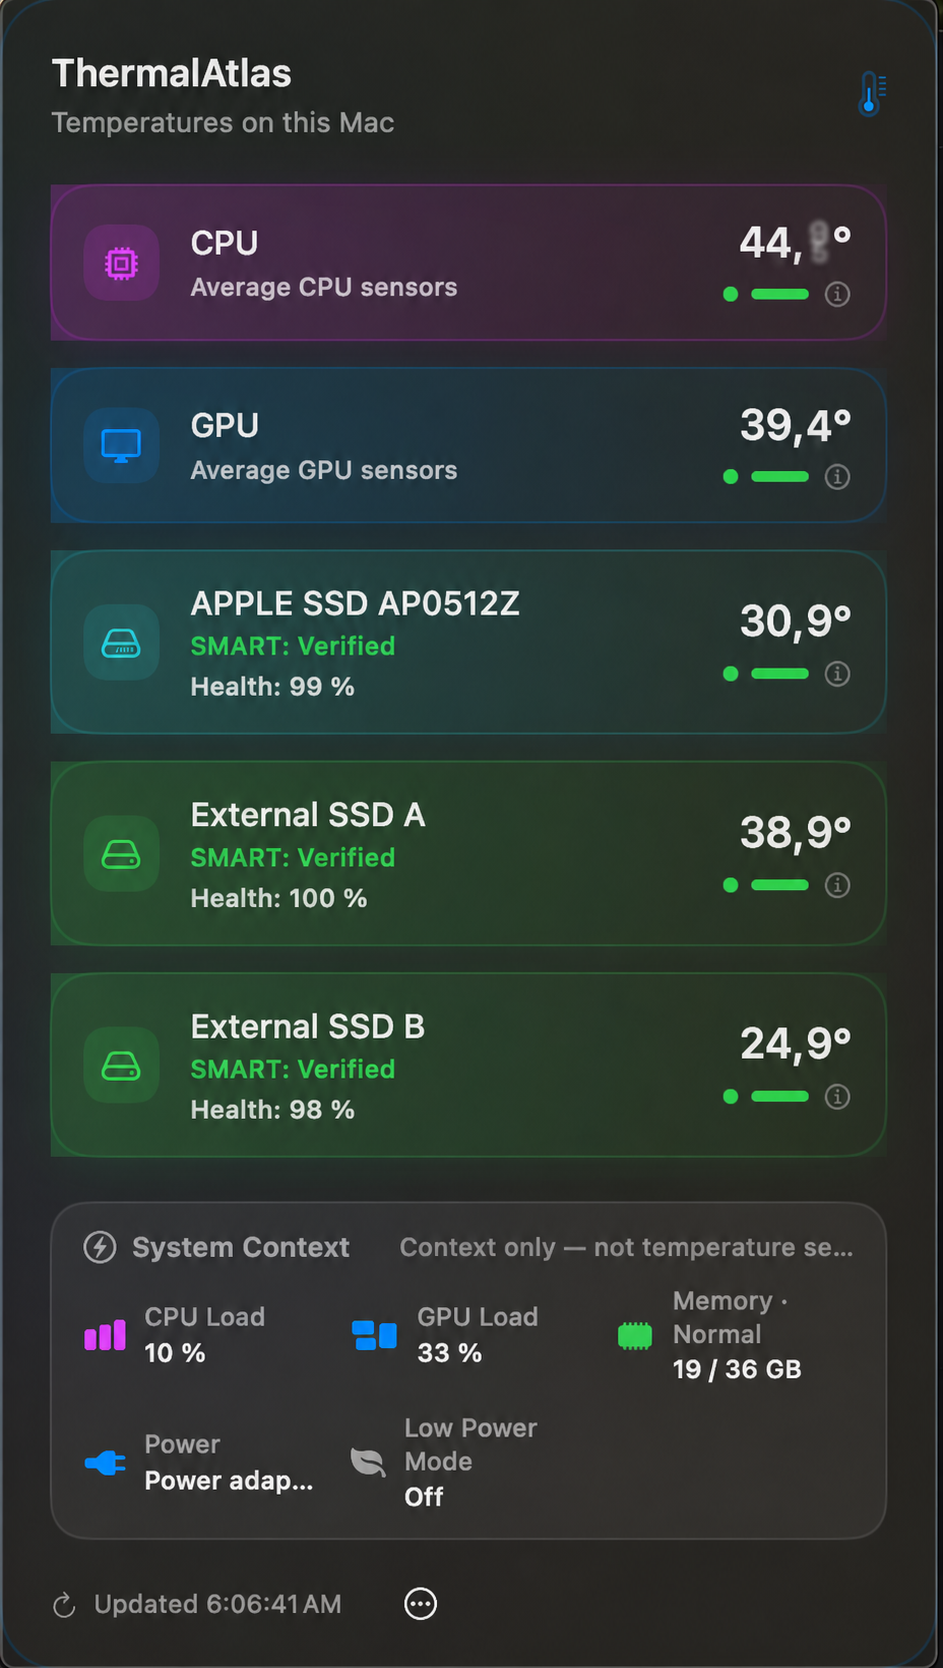
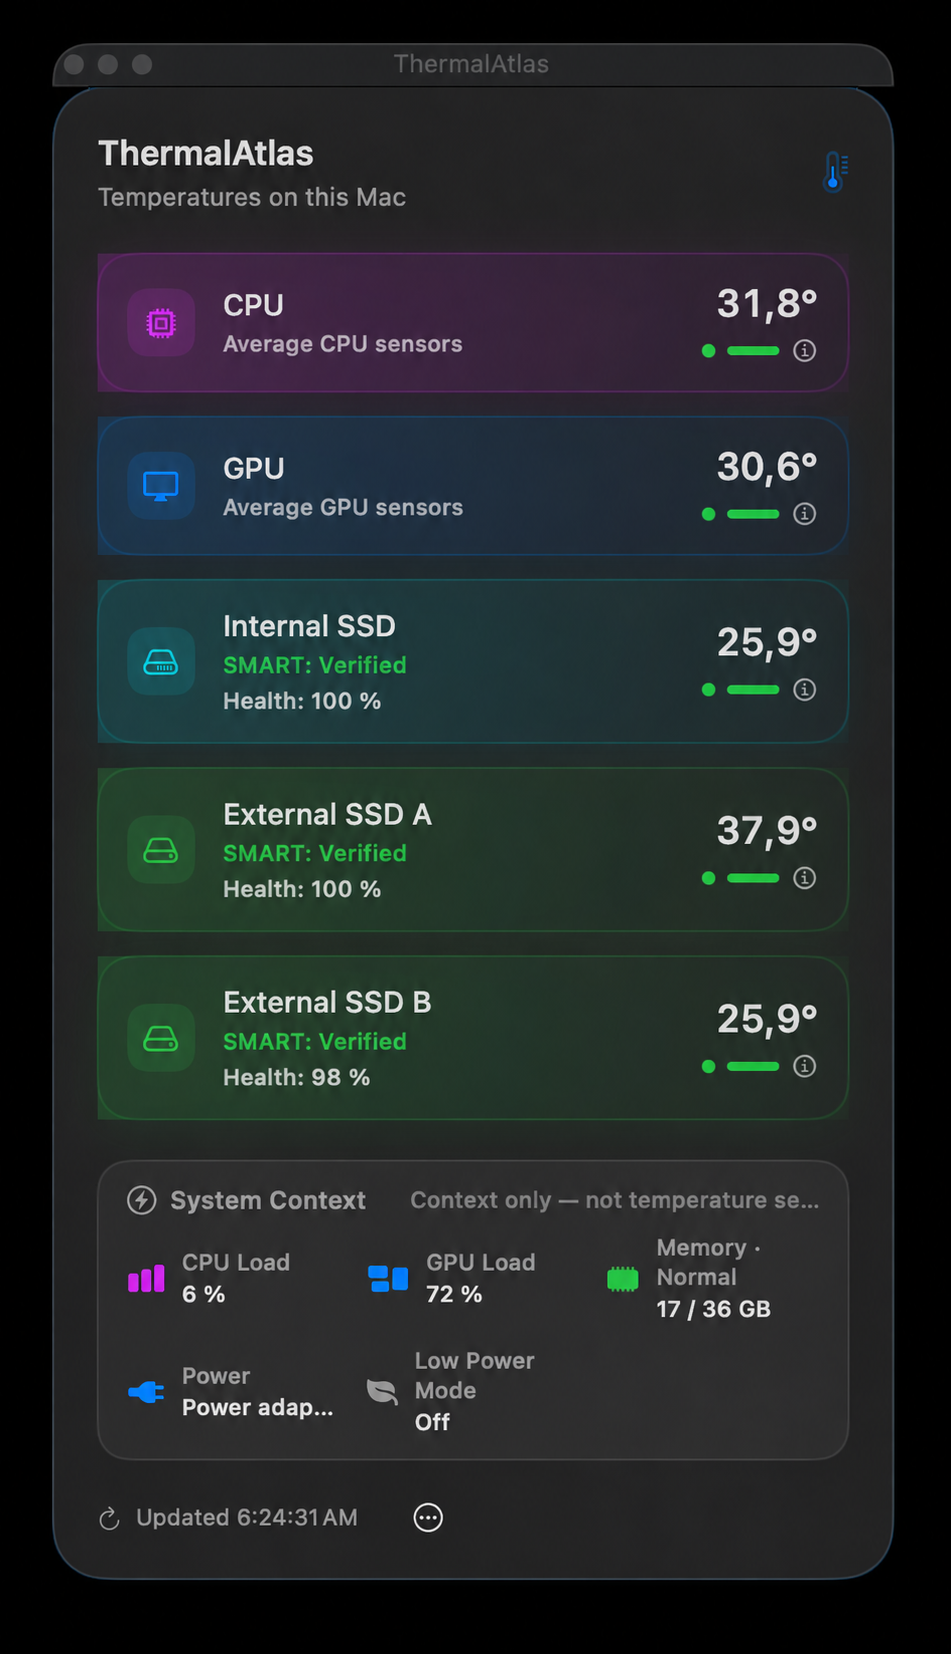
docs: refresh README screenshots

diff --git a/README.de.md b/README.de.md
@@ -46,6 +46,10 @@ Die vollständige, gegliederte [Funktionsübersicht](FEATURES.de.md) enthält al
 | Aurora | Ember |
 | <img src="Resources/Screenshots/aurora.png?v=20260823-monitoring" width="330" alt="ThermalAtlas-Aurora-macOS-Theme mit Temperaturkarten und separatem Systemkontext"> | <img src="Resources/Screenshots/ember.png?v=20260823-monitoring" width="330" alt="ThermalAtlas-Ember-macOS-Theme mit Temperaturkarten und separatem Systemkontext"> |
 
+| Kompaktansicht |
+| --- |
+| <img src="Resources/Screenshots/compact.png" width="260" alt="ThermalAtlas-Kompaktansicht mit Temperaturkarten und separatem Systemkontext"> |
+
 ## Voraussetzungen
 
 - macOS 14 oder neuer

diff --git a/README.md b/README.md
@@ -46,6 +46,10 @@ See the complete, grouped [feature overview](FEATURES.md).
 | Aurora | Ember |
 | <img src="Resources/Screenshots/aurora.png?v=20260823-monitoring" width="330" alt="ThermalAtlas Aurora macOS theme showing temperature cards and a separate System Context area"> | <img src="Resources/Screenshots/ember.png?v=20260823-monitoring" width="330" alt="ThermalAtlas Ember macOS theme showing temperature cards and a separate System Context area"> |
 
+| Compact view |
+| --- |
+| <img src="Resources/Screenshots/compact.png" width="260" alt="ThermalAtlas compact view with temperature cards and a System Context area"> |
+
 ## Requirements
 
 - macOS 14 or later
